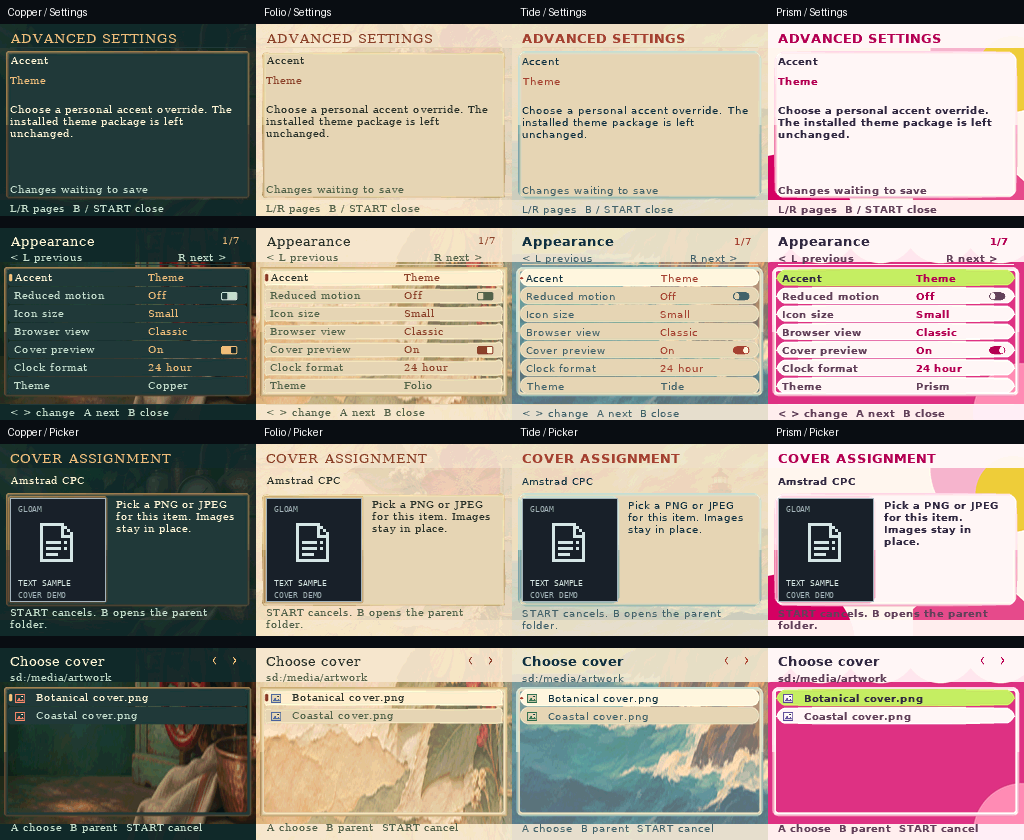
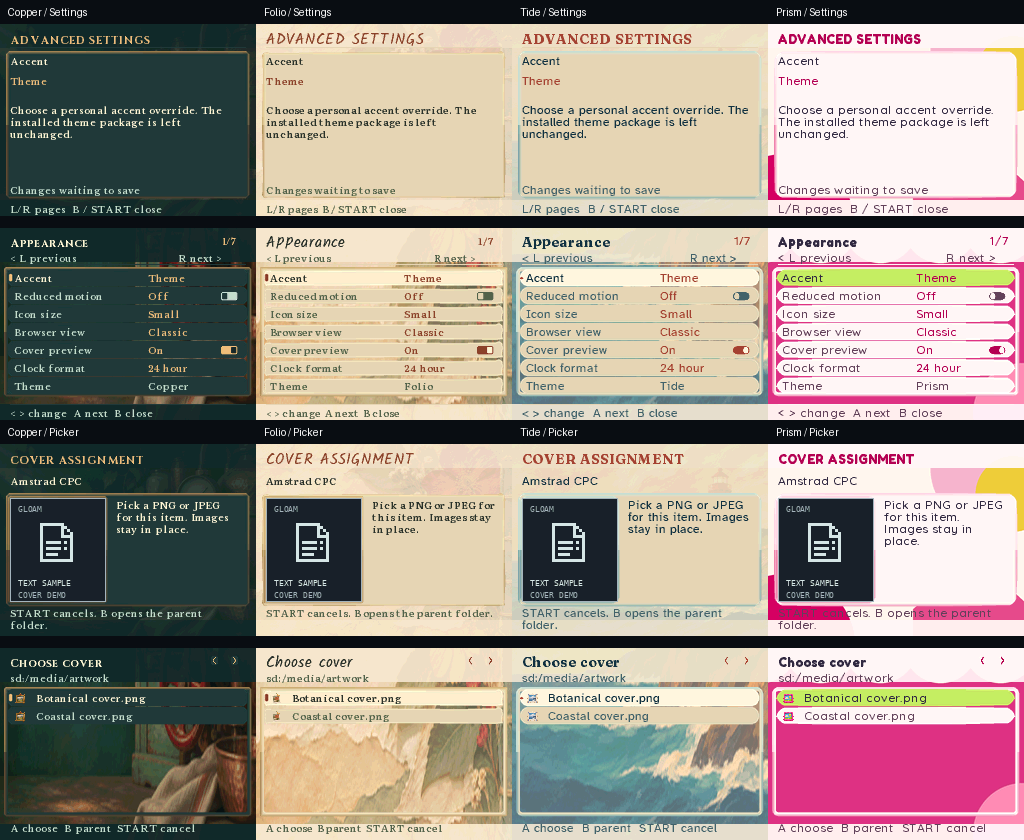
Refresh theme previews and document the independent visual sets

diff --git a/docs/guides/THEME_PACKAGES.md b/docs/guides/THEME_PACKAGES.md
@@ -771,3 +771,20 @@ with its side navigation. L/R and X navigation keep their usual behavior.
 `tabs_position` applies only to these three presets; it rejects incompatible
 combinations rather than silently ignoring them. Existing `sidebar`,
 `sidebar_left`, `poster` and `scene` retain their original compositions.
+
+## Bundled visual sets
+
+The eleven bundled themes use independent illustrated icon atlases, different
+body/heading font families, and material-specific cards, tabs and controls.
+Navigation and related file types share objects within their own theme. Native
+DS/DSi banners and configured emulator icons retain their title artwork.
+
+![The bundled icon sets at 32 and 16 pixels](../images/theme-icons.png)
+
+Icon masters are in `assets/theme-art/*-icons.png`. Reproduce their native
+sprites with `python3 tools/make_theme_icons.py`, then run
+`python3 tools/pack_theme_assets.py <theme-folder>` to rebuild the prepared bank.
+Source atlases never load on the console. The icon count and native pixel cache
+size stay unchanged; the richer RGB555 artwork changes compressed package size,
+not the per-frame drawing path. See [theme fonts](THEME_FONTS.md) for the separate
+OFL face inputs and offline preparation.
